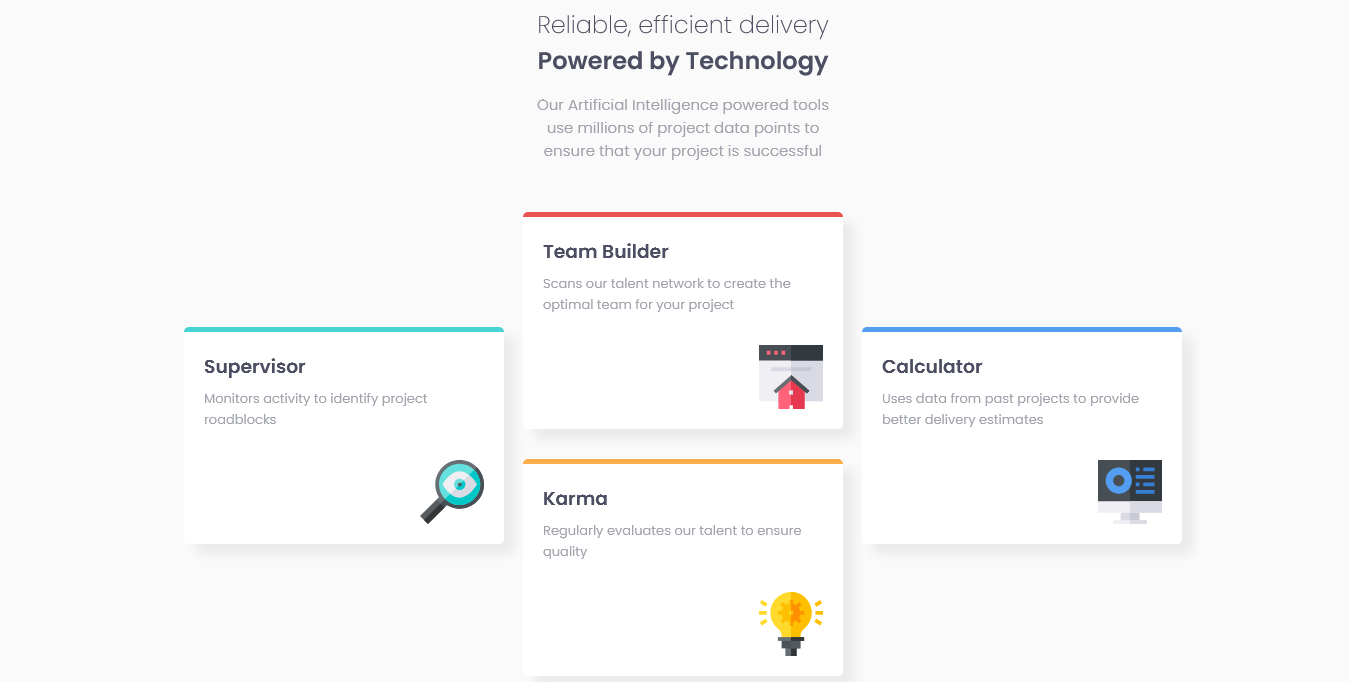
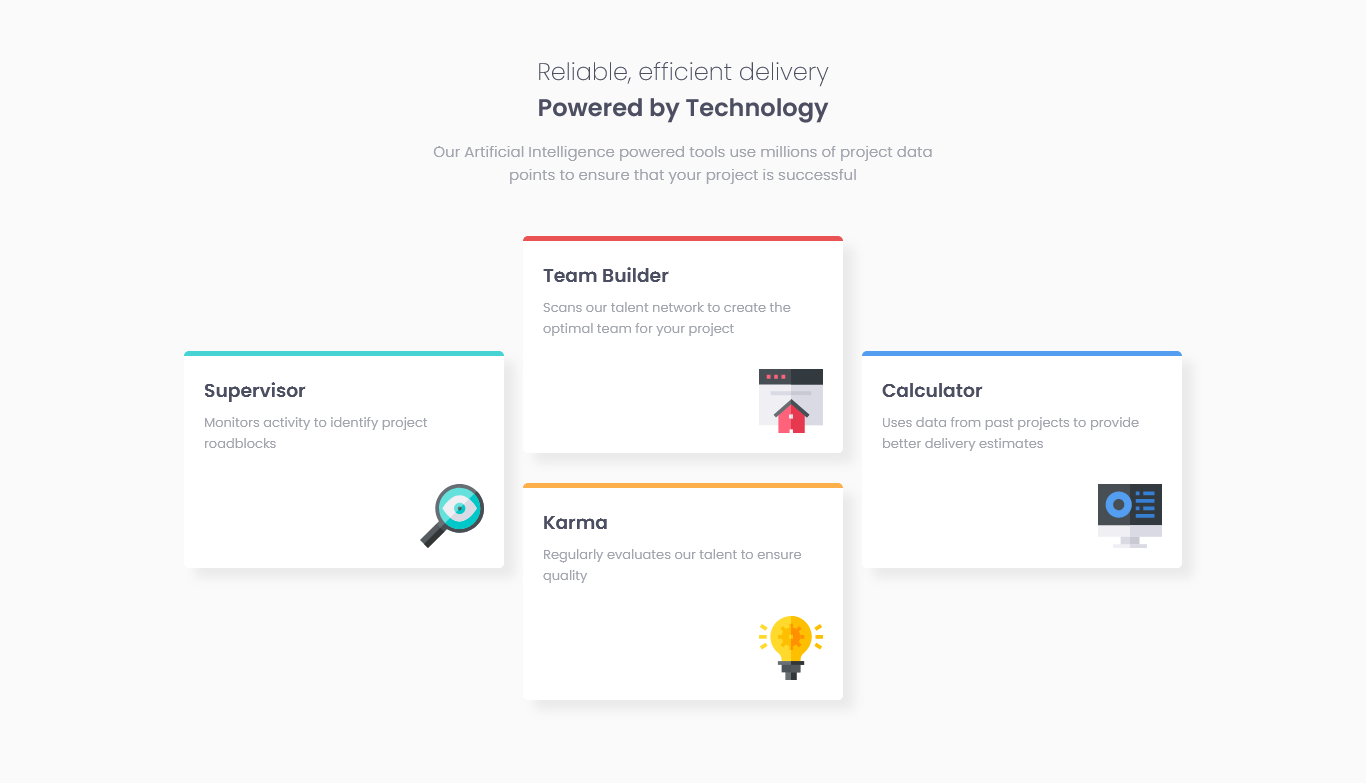
extras

diff --git a/styles.css b/styles.css
@@ -116,10 +116,10 @@ body {
 @media screen and (min-width: 1024px) {
     .main-container {
         width: 1024px;
-        margin-top: 20px;
+        margin-top: 40px;
     }
     .heading {
-        width: 320px;
+        width: 500px;
         margin: 0 auto;
     }
     .info {
